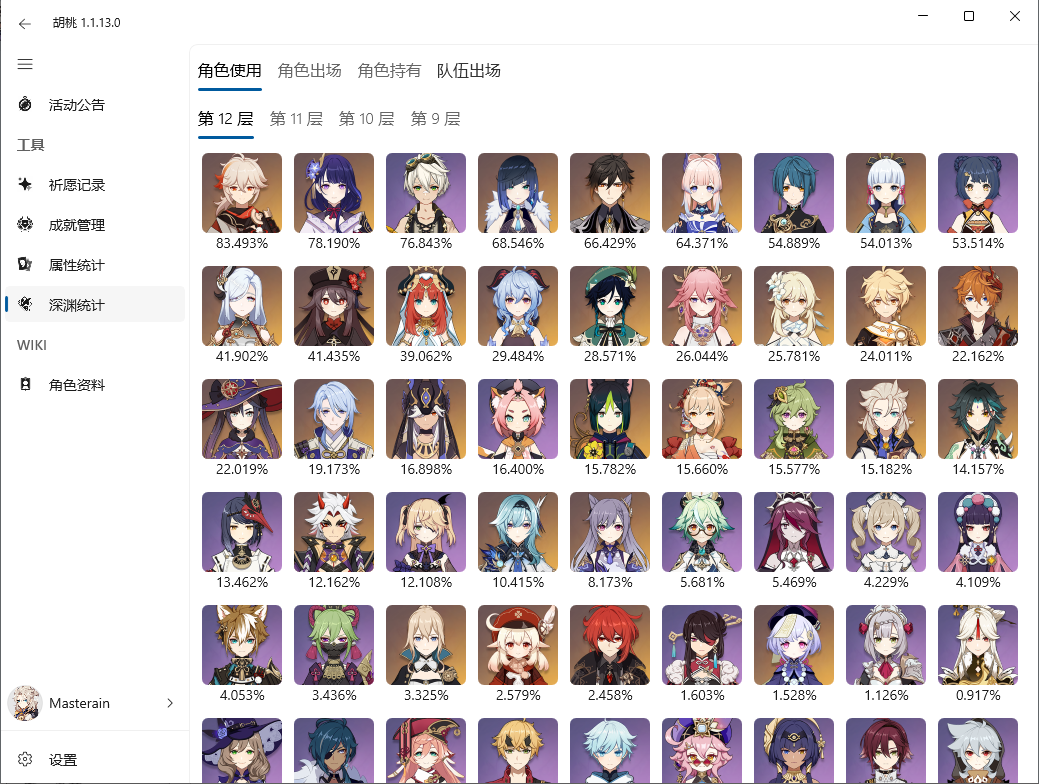
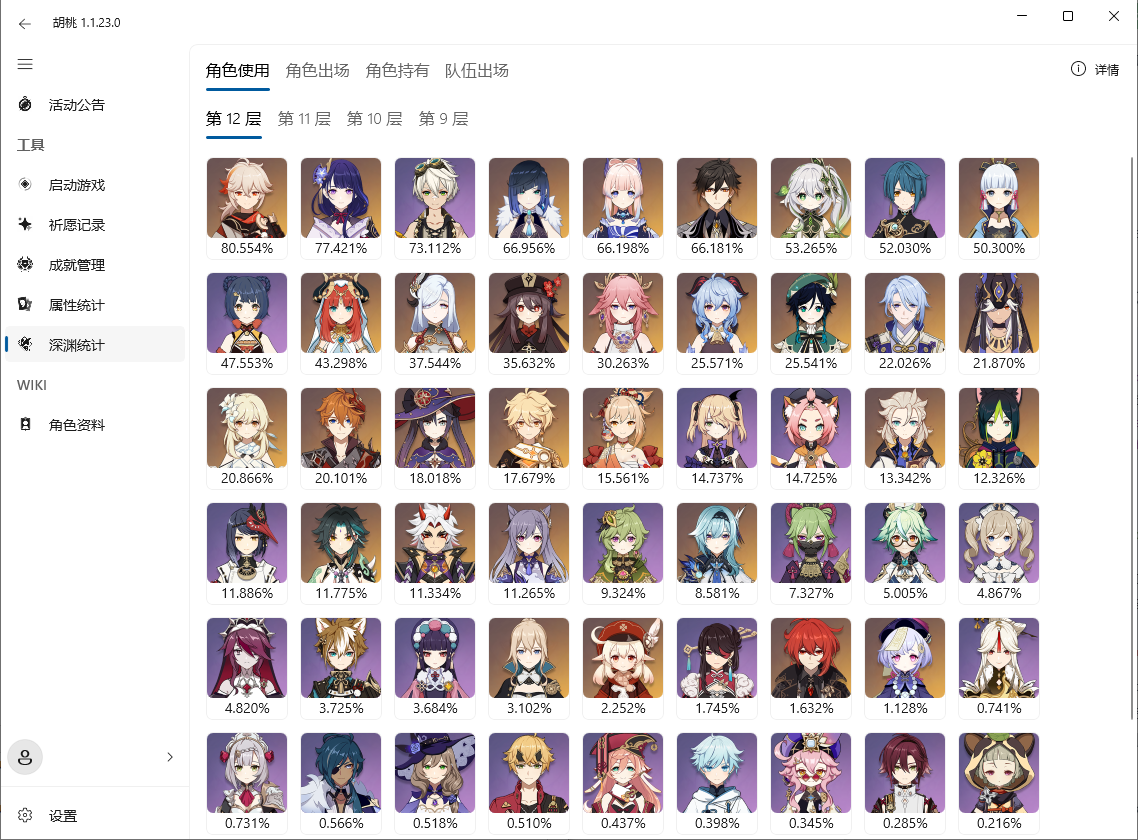
Update Hutao API doc

diff --git a/docs/features/hutao-API.md b/docs/features/hutao-API.md
@@ -2,9 +2,32 @@
 
 ![hutao-api UI](/images/202210/hutao-api.png)
 
+## 查看深渊数据
+::: warning
+所有计算数据都基于**已上传至胡桃数据库中的玩家数据**，无法代表全部原神玩家的平均数据，数据仅做参考用途
+:::
+::: info 数据刷新周期
+1. 深境螺旋统计数据（角色使用率、角色出场率、队伍出场）在北京时间每月1日和16日的4点自动清理。
+   - 点击界面右上角的信息按钮你可以查看当前实时已上传的总数据
+2. 同时，若用户在30天内没有重新上传记录以更新数据，则其的角色持有数据将被清理
+:::
+
+- 在主界面点击左侧菜单栏进入`深渊统计`页面
+- 点击`角色使用`以查看角色使用率数据
+  - 角色使用率 = 角色在当前层数出场次数 / 持有该角色的玩家在该层数的总记录数
+
+- 点击`角色出场`以查看角色出场率数据
+  - 角色出场率 = 角色在当前层数出场次数 / 当前层数总记录数
+
+- 点击`角色持有`以查看角色持有率数据[^first]
+  - 角色持有率[^second] = 所有拥有该角色的玩家数量 / 全部玩家数量 
+
+- 点击`队伍出场`以查看队伍组合出场次数数据
+  - 各种角色组队情况下出场次数的排名
+
 ## 上传深境螺旋数据
 
-- 在主界面点击左侧菜单栏进入`设置`标签
+- 在主界面点击左侧菜单栏进入`设置`页面
 
 - 点击设置选项中`提交深渊数据`一栏中的`上传`按钮
 
@@ -13,3 +36,8 @@
 - 上传成功后你会看到如下提示
 
   ![hutao-api 提交数据](/images/202210/hutao-api-submit.png)
+
+[^first]: 角色持有数据与深境螺旋记录独立
+
+[^second]: 只要拥有该角色，即使没有在深境螺旋中登场，也会被计入拥有的状态；
+只要上传过深境螺旋记录，即会被计入全部玩家的数据中。
